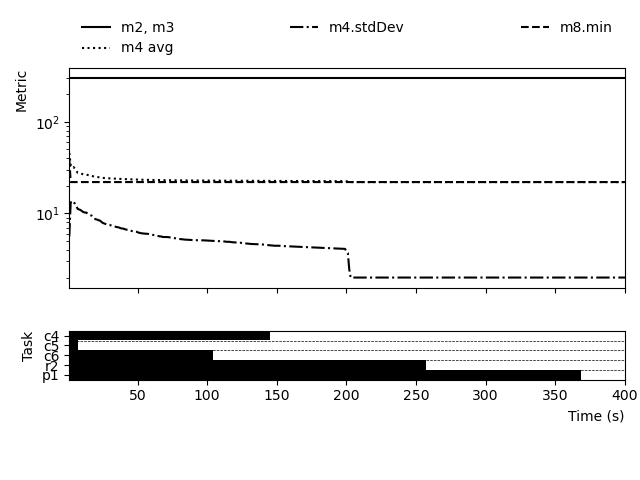
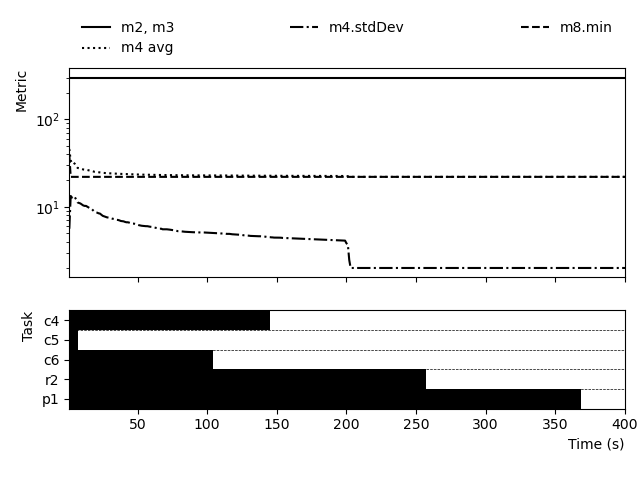
Smaller aspect

Changed region(s): [[0.0312, 0.625, 1.0, 0.9375], [0.0625, 0.3125, 0.9688, 0.5938], [0.0625, 0.2188, 0.0938, 0.2812]]

diff --git a/script/simulation_plot.py b/script/simulation_plot.py
@@ -15,14 +15,14 @@ tasks, S_START, S_END, ATTACK_START, ATTACK_END, LOG_FILE = (
     None,
     abspath(f"{dirname(__file__)}/../logs/execution_new_rule.json"),
 )
-# tasks, S_START, S_END, ATTACK_START, ATTACK_END, LOG_FILE = (
-#     ["C6", "C7", "C11", "R2", "R5", "P1"],
-#     200,
-#     650,
-#     249,
-#     259,
-#     abspath(f"{dirname(__file__)}/../logs/attack_new_rule.json"),
-# )
+tasks, S_START, S_END, ATTACK_START, ATTACK_END, LOG_FILE = (
+    ["C6", "C7", "C11", "R2", "R5", "P1"],
+    200,
+    650,
+    249,
+    259,
+    abspath(f"{dirname(__file__)}/../logs/attack_new_rule.json"),
+)
 
 METRICS = [f"M{i + 1}" for i in range(12)]
 METRICS.remove("M5")
@@ -136,7 +136,7 @@ if __name__ == "__main__":
     ax.imshow(
         evaluations_data.transpose().astype(float).values,
         interpolation="nearest",
-        aspect=len(evaluations_data)/60,
+        aspect=len(evaluations_data)/50,
         cmap=ListedColormap(["k", "w"]),
     )
     vertical_lines()
@@ -153,4 +153,4 @@ if __name__ == "__main__":
     else:
         plt.savefig("../plots/certification.pdf", format="pdf")
         plt.savefig("../plots/certification.png", format="png")
-    plt.show()
+    # plt.show()

diff --git a/script/misconfiguration_plot.py b/script/misconfiguration_plot.py
@@ -144,4 +144,4 @@ if __name__ == "__main__":
     plt.xlim(S_START, S_END)
     plt.savefig("../plots/misconfiguration.pdf", format="pdf")
     plt.savefig("../plots/misconfiguration.png", format="png")
-    plt.show()
+    # plt.show()
